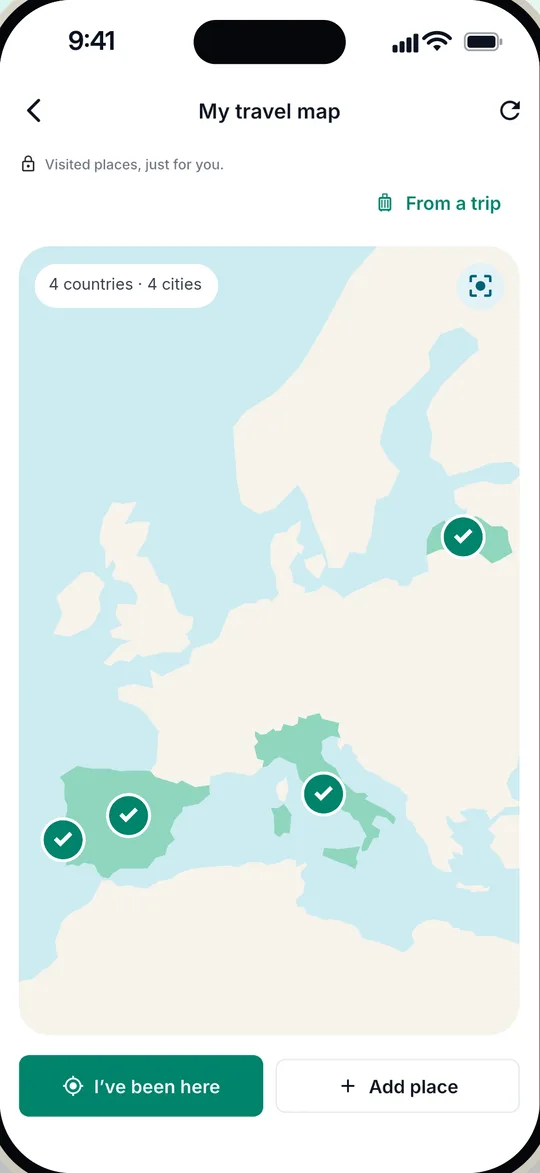
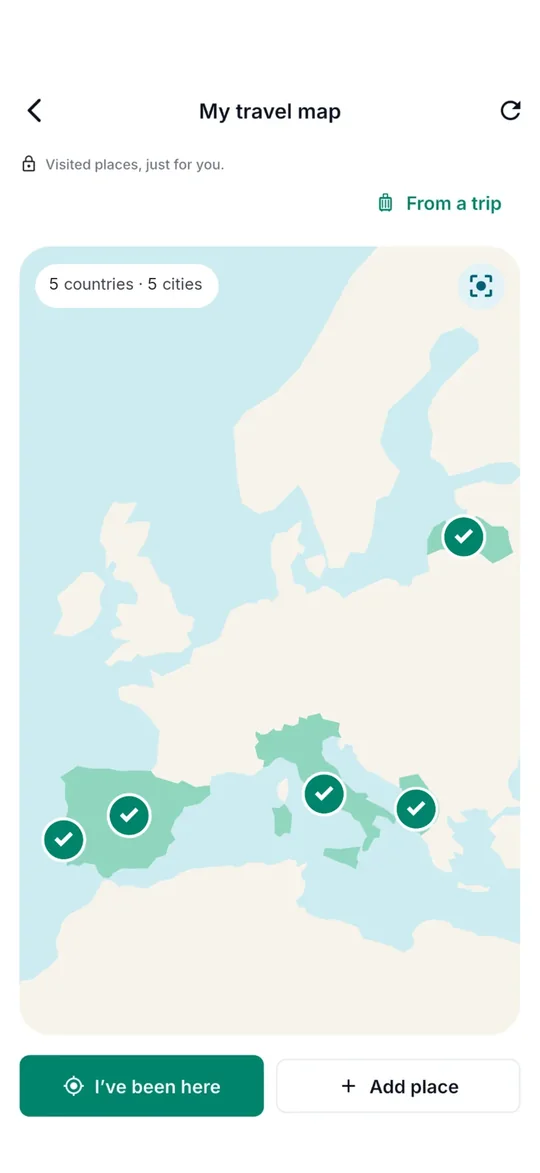
Travel map screenshot: Albania pinned, 5 countries and cities

diff --git a/index.html b/index.html
@@ -204,7 +204,7 @@
           <img class="ribbons" src="/site/images/ribbons/travel-map.svg" width="1440" height="900" alt="" loading="lazy">
           <div class="phone">
             <div class="phone__bezel"><div class="phone__screen">
-              <img class="screen-shot" src="/site/images/screens/travel-map.webp" width="540" height="1173" alt="" loading="lazy" decoding="async">
+              <img class="screen-shot" src="/site/images/screens/travel-map.webp?v=2" width="540" height="1173" alt="" loading="lazy" decoding="async">
             </div></div>
             <div class="float float--padded float--place">
               <div class="place__head"><span class="place__name">Vlorë</span><svg class="icon"><use href="/site/images/icons.svg?v=2#close"/></svg></div>
